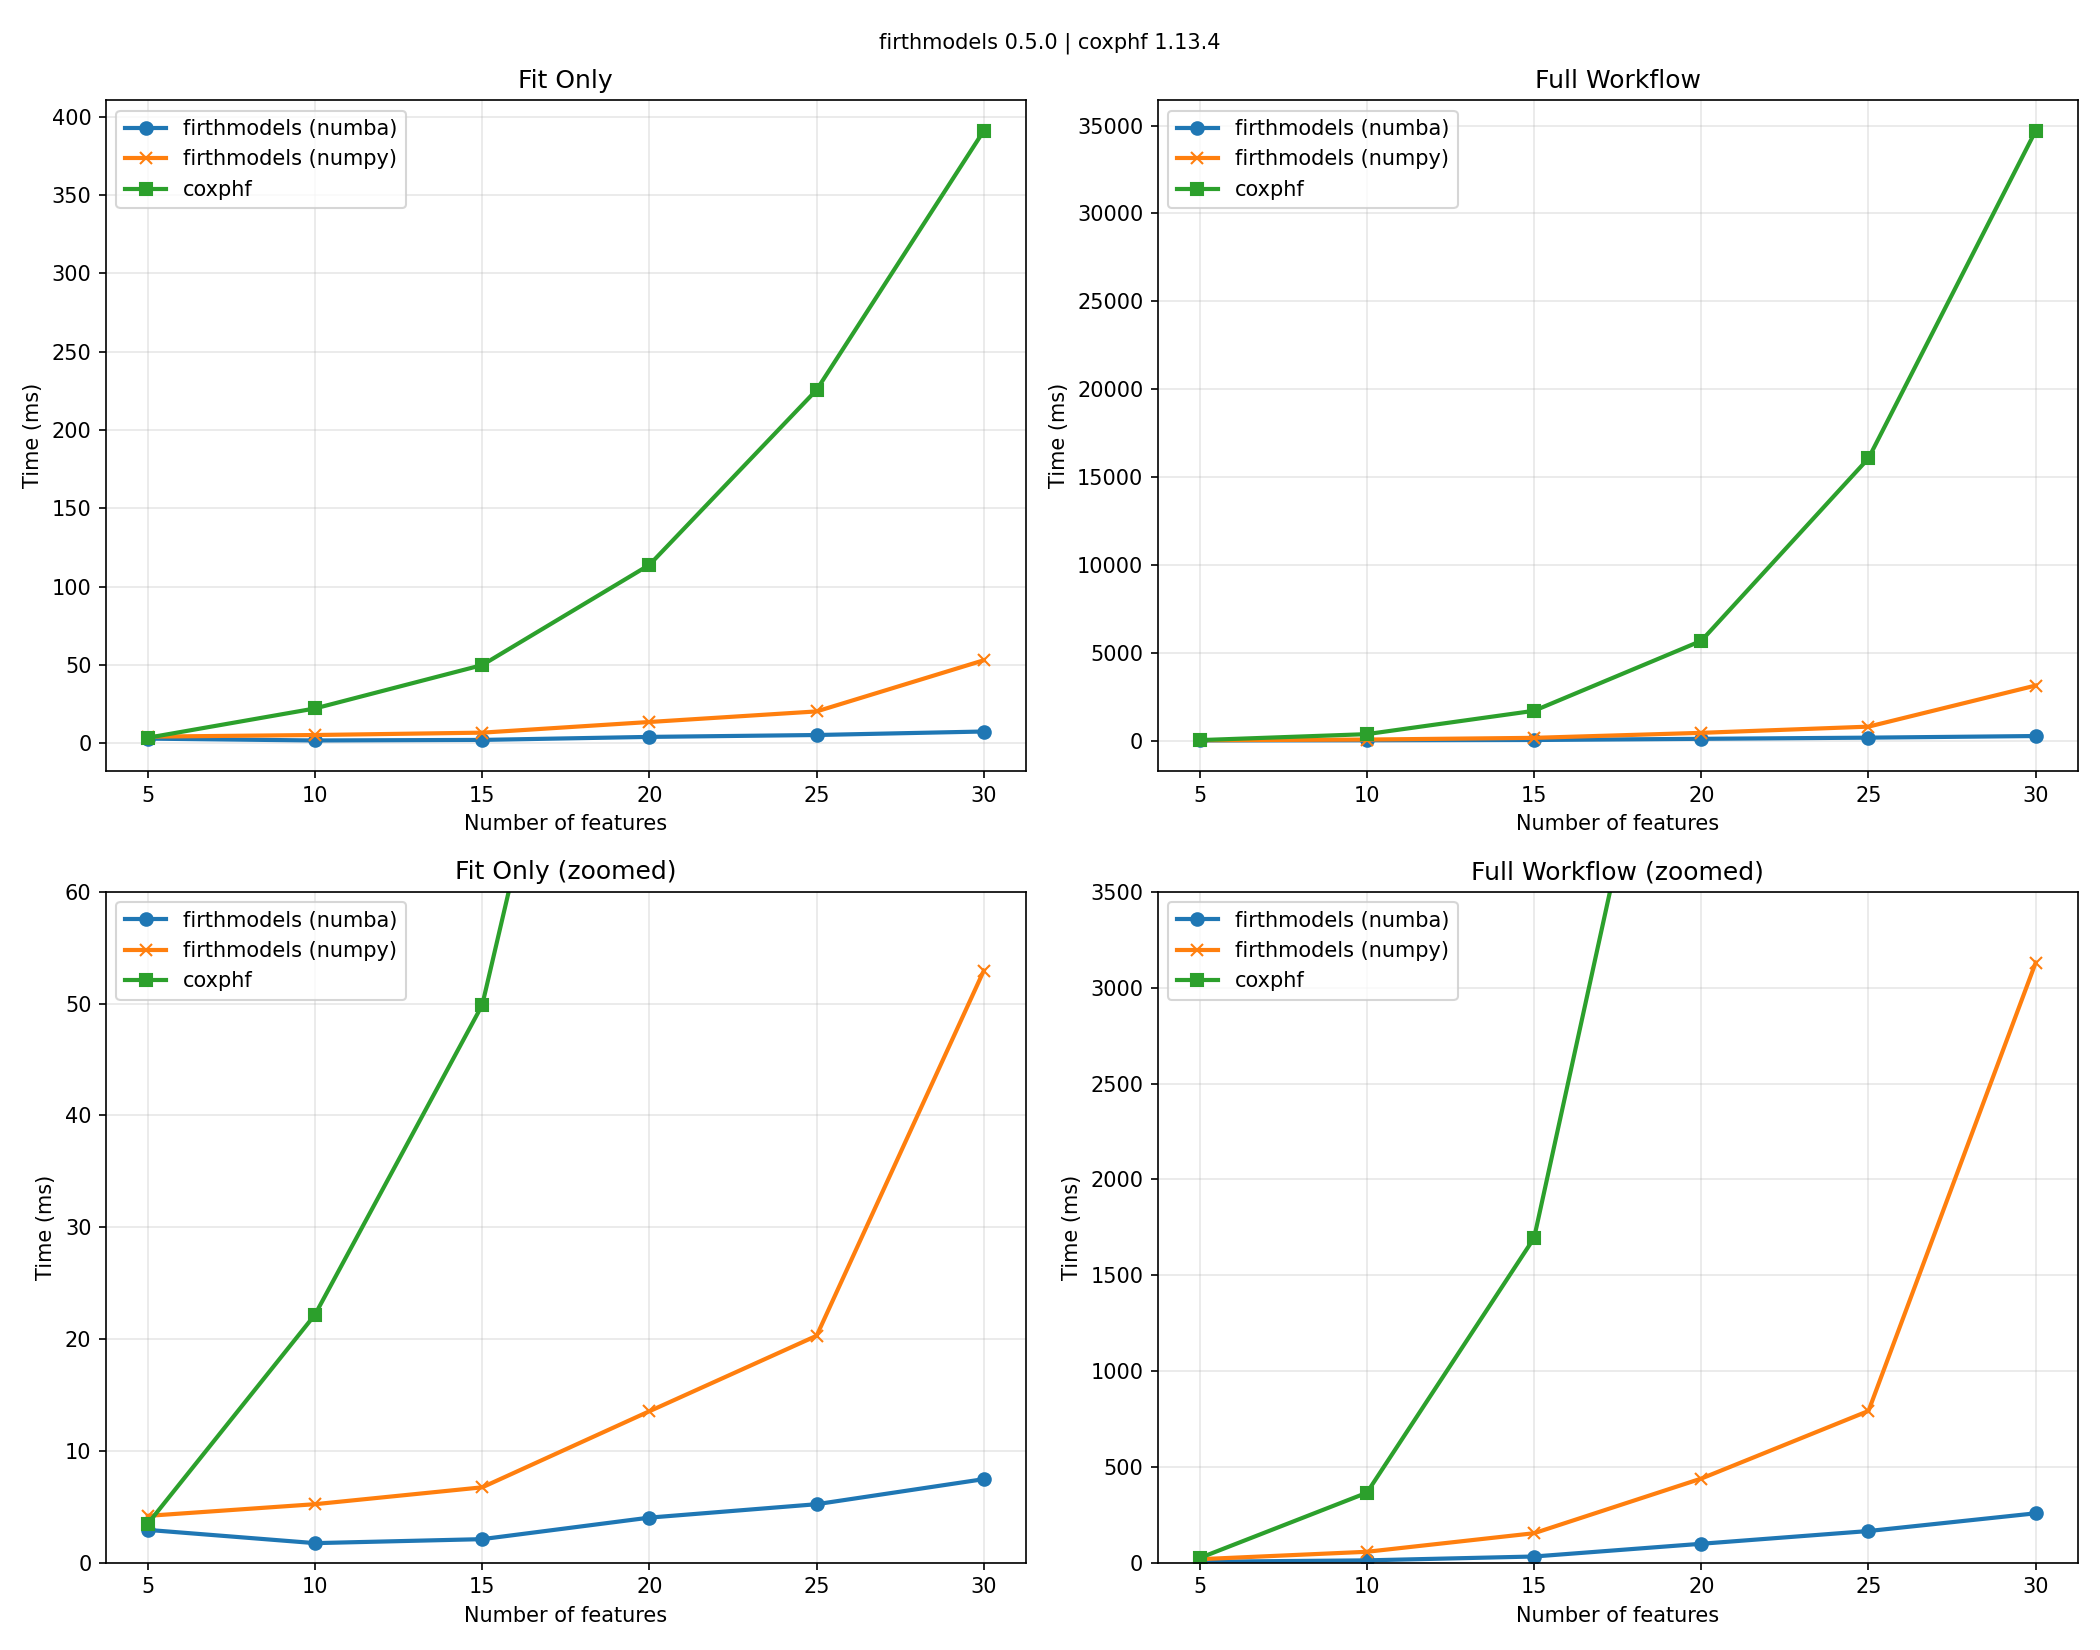
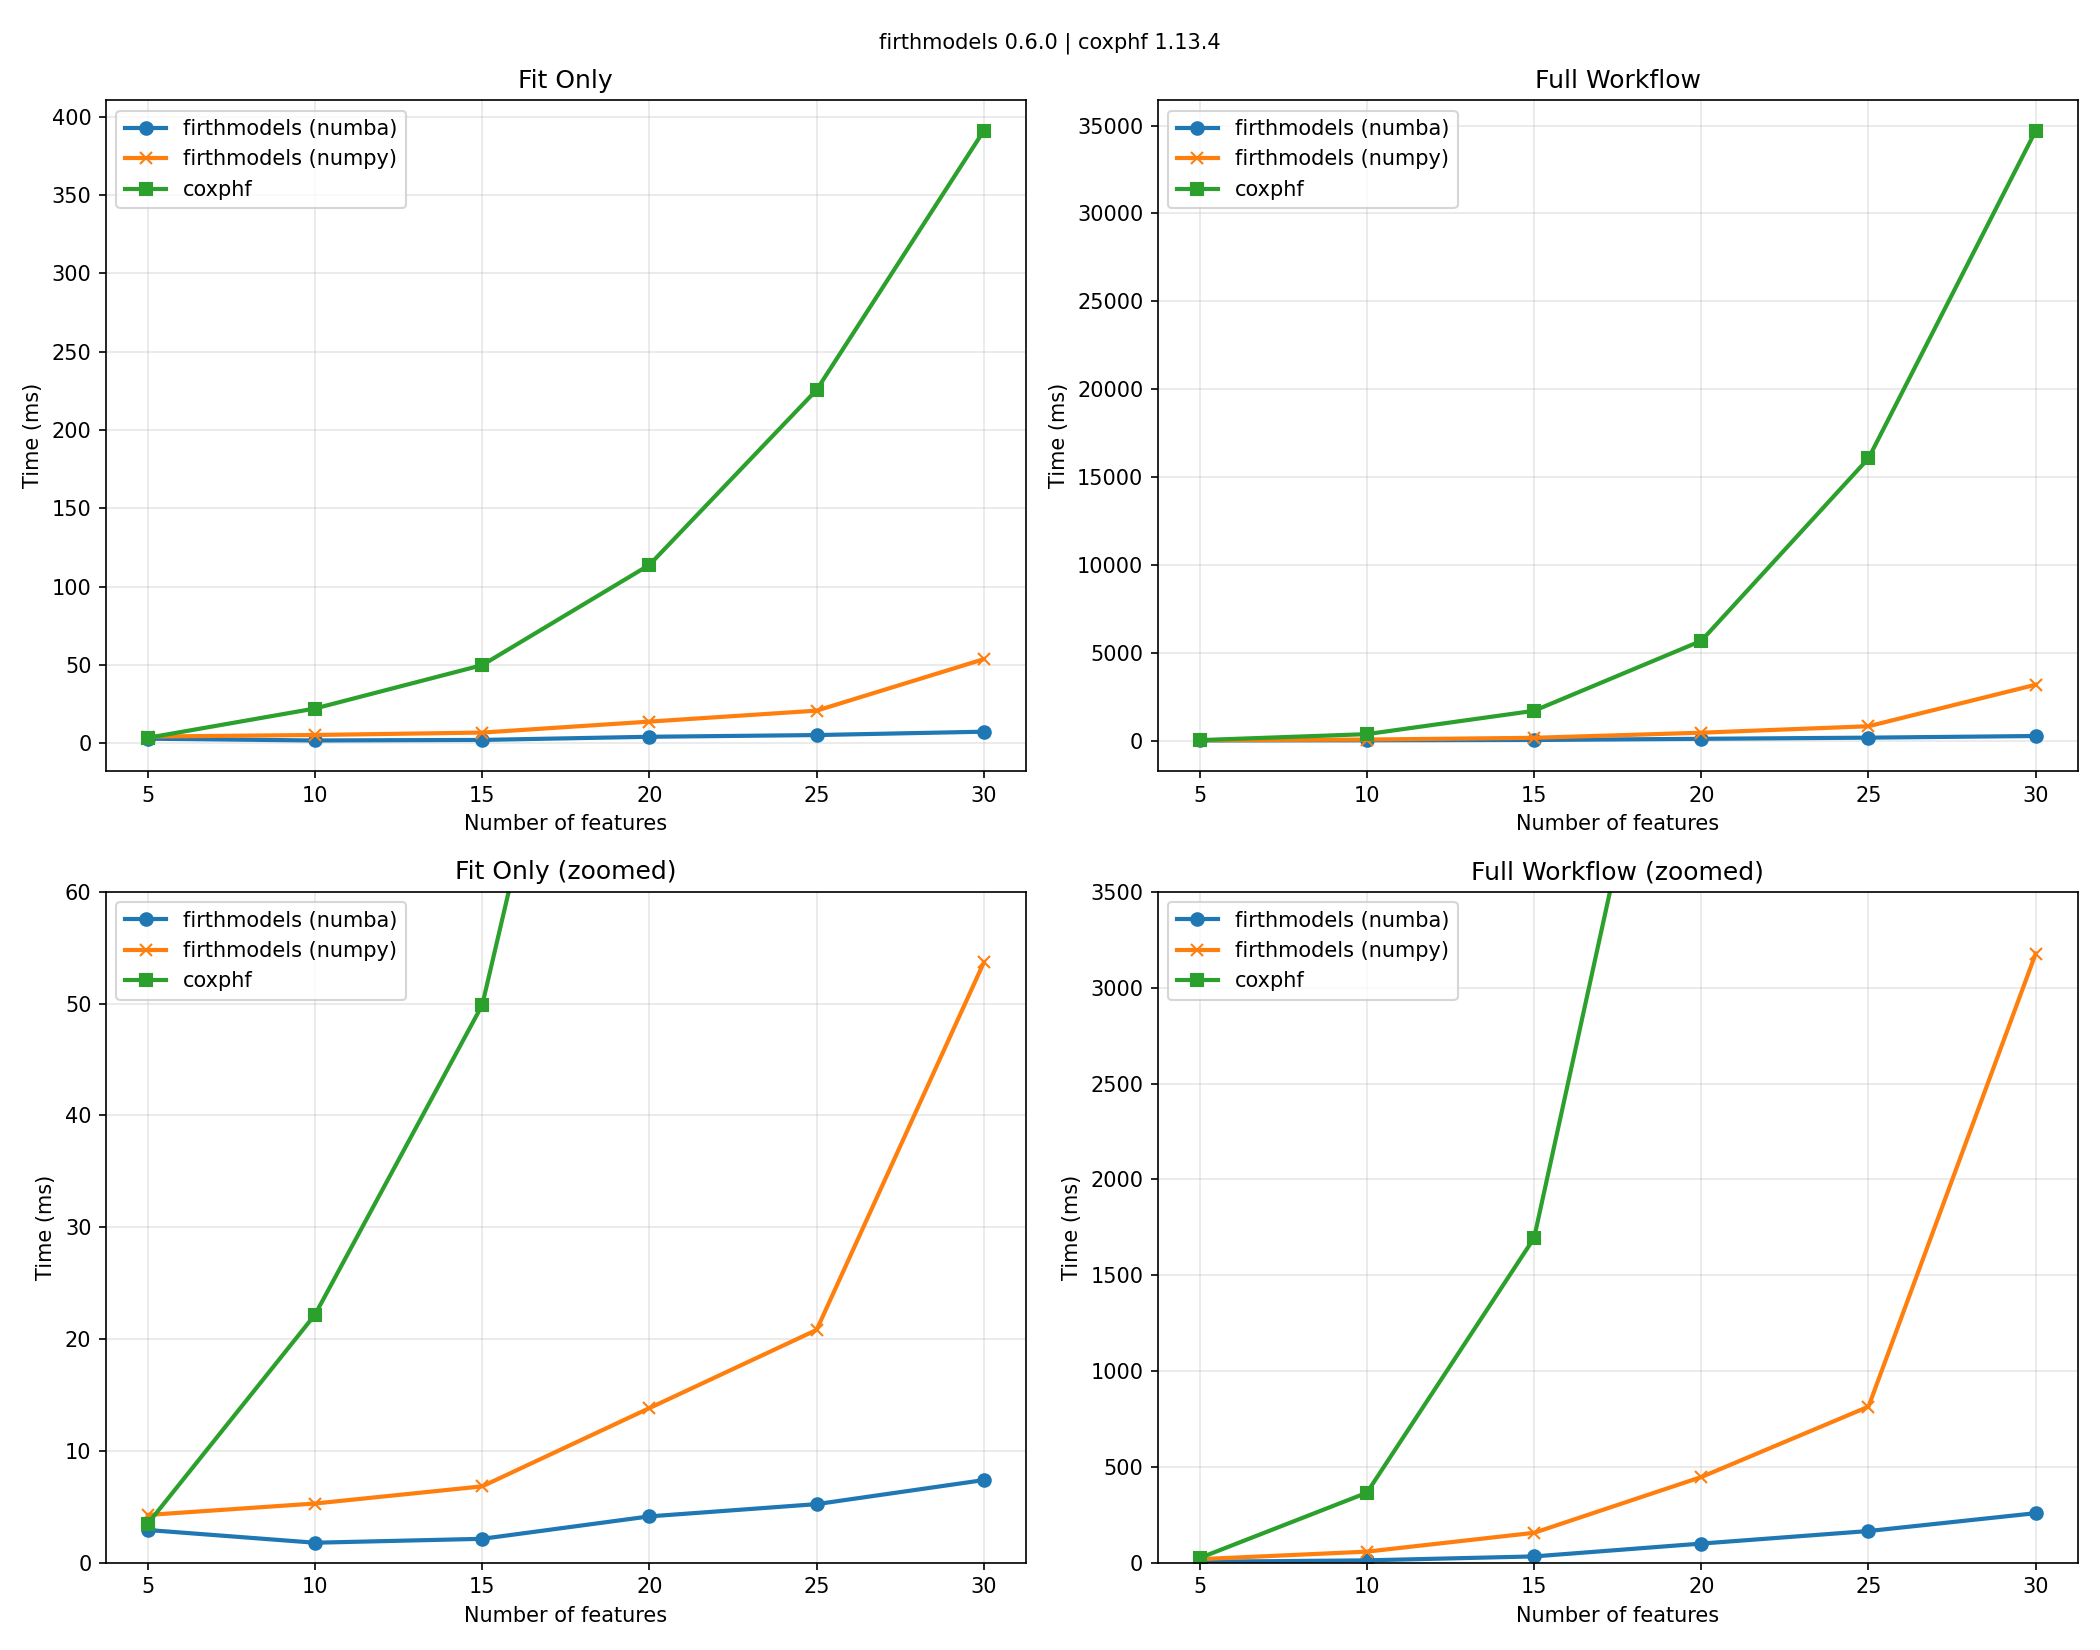
bump version to 0.6.0

diff --git a/benchmarks/README.md b/benchmarks/README.md
@@ -27,7 +27,7 @@ for Firth-penalized logistic regression.
 
 | Library | Version | BLAS |
 |---------|---------|------|
-| **firthmodels** | 0.5.0 | /usr/lib/x86_64-linux-gnu/openblas-pthread/ (openblas 0.3.26) |
+| **firthmodels** | 0.6.0 | /usr/lib/x86_64-linux-gnu/openblas-pthread/ (openblas 0.3.26) |
 | **brglm2** | 1.0.1 | /usr/lib/x86_64-linux-gnu/openblas-pthread/libblas.so.3 |
 | **logistf** | 1.26.1 | /usr/lib/x86_64-linux-gnu/openblas-pthread/libblas.so.3 |
 
@@ -56,16 +56,16 @@ Time to fit the model and perform Wald inference. Values are minimum time across
 
 | k | firthmodels<br>(numba) | firthmodels<br>(numpy) | brglm2<br>(AS-mean) | brglm2<br>(MPL_Jeffreys) | logistf |
 |--:|------:|------:|------------:|-------------:|--------:|
-|   5 | 0.5 | 1.3 | 4.2 | 4.2 | 2.0 |
-|  10 | 1.1 | 1.2 | 7.9 | 7.2 | 4.3 |
+|   5 | 0.5 | 0.9 | 4.2 | 4.2 | 2.0 |
+|  10 | 1.1 | 1.6 | 7.9 | 7.2 | 4.3 |
 |  15 | 1.2 | 1.9 | 8.2 | 8.2 | 7.6 |
-|  20 | 1.4 | 2.1 | 9.3 | 9.4 | 15.7 |
+|  20 | 1.4 | 2.0 | 9.3 | 9.4 | 15.7 |
 |  25 | 1.7 | 2.5 | 11.7 | 11.7 | 24.2 |
-|  30 | 2.0 | 2.7 | 12.6 | 12.9 | 30.2 |
+|  30 | 1.9 | 2.7 | 12.6 | 12.9 | 30.2 |
 |  35 | 2.1 | 3.0 | 14.9 | 14.8 | 42.0 |
-|  40 | 2.8 | 3.5 | 16.9 | 16.8 | 52.7 |
+|  40 | 2.6 | 3.5 | 16.9 | 16.8 | 52.7 |
 |  45 | 3.3 | 4.4 | 18.6 | 19.8 | 70.3 |
-|  50 | 4.1 | 5.4 | 23.9 | 24.2 | 86.0 |
+|  50 | 4.0 | 5.2 | 23.9 | 24.2 | 86.0 |
 
 #### Full Workflow (Fit + LRT + Profile CI)
 
@@ -73,16 +73,16 @@ Time to fit the model, compute penalized likelihood ratio test p-values for all 
 
 | k | firthmodels<br>(numba) | firthmodels<br>(numpy) | logistf |
 |--:|------:|------:|--------:|
-|   5 | 4.7 | 10.2 | 13.6 |
-|  10 | 20.5 | 41.2 | 72.1 |
-|  15 | 31.2 | 65.3 | 157.6 |
-|  20 | 49.6 | 90.3 | 452.6 |
-|  25 | 82.2 | 140.8 | 931.5 |
-|  30 | 117.2 | 184.5 | 1350.4 |
-|  35 | 147.6 | 240.9 | 2322.4 |
-|  40 | 211.8 | 316.5 | 3334.4 |
-|  45 | 279.8 | 413.6 | 4692.8 |
-|  50 | 393.2 | 538.8 | 6501.0 |
+|   5 | 4.7 | 10.5 | 13.6 |
+|  10 | 21.0 | 39.5 | 72.1 |
+|  15 | 30.7 | 63.7 | 157.6 |
+|  20 | 48.3 | 89.3 | 452.6 |
+|  25 | 80.9 | 142.4 | 931.5 |
+|  30 | 116.5 | 186.4 | 1350.4 |
+|  35 | 145.7 | 240.6 | 2322.4 |
+|  40 | 211.5 | 324.5 | 3334.4 |
+|  45 | 279.3 | 417.3 | 4692.8 |
+|  50 | 391.7 | 549.3 | 6501.0 |
 
 
 ---
@@ -97,7 +97,7 @@ for Firth-penalized Cox proportional hazards regression.
 
 | Library | Version | BLAS |
 |---------|---------|------|
-| **firthmodels** | 0.5.0 | /usr/lib/x86_64-linux-gnu/openblas-pthread/ (openblas 0.3.26) |
+| **firthmodels** | 0.6.0 | /usr/lib/x86_64-linux-gnu/openblas-pthread/ (openblas 0.3.26) |
 | **coxphf** | 1.13.4 | /usr/lib/x86_64-linux-gnu/openblas-pthread/libblas.so.3 |
 
 ### Configuration
@@ -124,12 +124,12 @@ Time to fit the model and perform Wald inference. Values are minimum time across
 
 | k | firthmodels<br>(numba) | firthmodels<br>(numpy) | coxphf |
 |--:|------:|------:|-------:|
-|   5 | 2.9 | 4.2 | 3.5 |
-|  10 | 1.7 | 5.2 | 22.2 |
-|  15 | 2.1 | 6.7 | 49.9 |
-|  20 | 4.0 | 13.5 | 113.9 |
-|  25 | 5.2 | 20.3 | 225.5 |
-|  30 | 7.5 | 53.0 | 391.0 |
+|   5 | 2.9 | 4.3 | 3.5 |
+|  10 | 1.8 | 5.3 | 22.2 |
+|  15 | 2.1 | 6.8 | 49.9 |
+|  20 | 4.1 | 13.8 | 113.9 |
+|  25 | 5.2 | 20.8 | 225.5 |
+|  30 | 7.4 | 53.7 | 391.0 |
 
 #### Full Workflow (Fit + LRT + Profile CI)
 
@@ -137,12 +137,12 @@ Time to fit the model, compute penalized likelihood ratio test p-values for all 
 
 | k | firthmodels<br>(numba) | firthmodels<br>(numpy) | coxphf |
 |--:|------:|------:|-------:|
-|   5 | 4.3 | 17.6 | 23.8 |
-|  10 | 11.6 | 56.3 | 364.4 |
-|  15 | 31.7 | 153.3 | 1693.6 |
-|  20 | 98.2 | 438.4 | 5675.5 |
-|  25 | 164.7 | 791.2 | 16062.0 |
-|  30 | 257.2 | 3131.3 | 34707.3 |
+|   5 | 4.3 | 17.7 | 23.8 |
+|  10 | 11.6 | 57.1 | 364.4 |
+|  15 | 32.2 | 155.4 | 1693.6 |
+|  20 | 99.1 | 446.4 | 5675.5 |
+|  25 | 164.7 | 813.8 | 16062.0 |
+|  30 | 257.9 | 3178.2 | 34707.3 |
 
 
 ---
